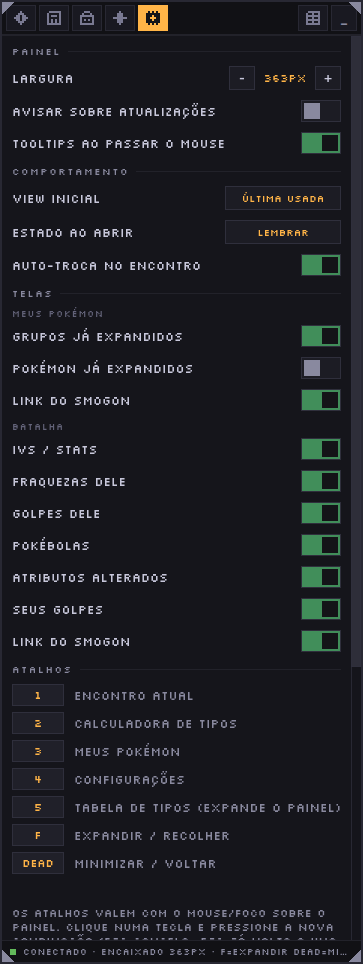
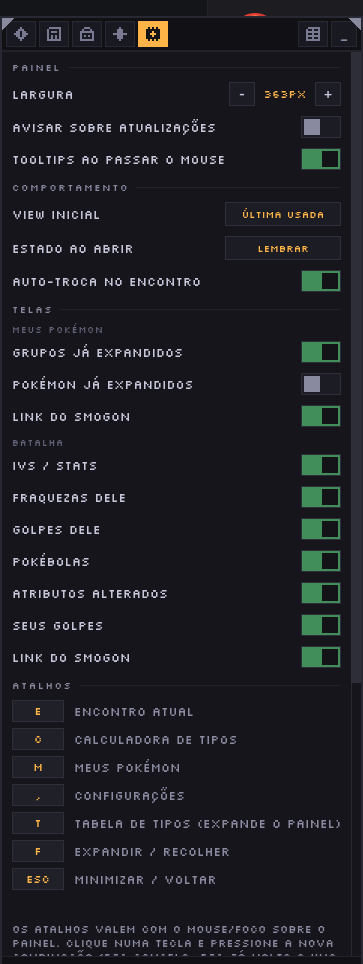
revert: desfaz a mudança dos atalhos padrão
Os atalhos numéricos já são tratados em feat/atualizar-bat-autoreload-atalhos,
com valores próprios (1/2/3/4 mantendo T e usando crase para minimizar). Ter
uma segunda versão aqui só criaria conflito na hora de juntar as duas, então
os padrões voltam ao que está na develop.

O print de Configurações foi refeito com os atalhos padrão restaurados no
perfil de captura — ele mostrava 1/2/3/4/5 e um "DEAD" no minimizar, que eram
preferências salvas naquele perfil, não o comportamento de fábrica.

diff --git a/data/extension-storage.js b/data/extension-storage.js
@@ -49,11 +49,11 @@ var PokemonHelperStorage = globalThis.PokemonHelperStorage || (() => {
         panelZoom: 1,                 // fator de zoom do conteúdo do painel (ver components/panel-zoom.js)
         // ação → combinação normalizada (ver PokemonHelperShortcutUtils)
         shortcuts: Object.freeze({
-            battle: '1',
-            calc: '2',
-            myPokemons: '3',
-            settings: '4',
-            typeChart: '5',
+            battle: 'e',
+            calc: 'c',
+            myPokemons: 'm',
+            settings: ',',
+            typeChart: 't',
             toggleFull: 'f',
             minimize: 'escape'
         }),

diff --git a/README.md b/README.md
@@ -382,11 +382,11 @@ sobre o painel do overlay (nunca disparam na página do jogo).
 | Ação | Atalho padrão | Onde funciona |
 |---|---|---|
 | Abrir/fechar o overlay inteiro | `Ctrl+Shift+Y` | Atalho do navegador (`chrome://extensions/shortcuts`) |
-| Encontro | `1` | Com foco no painel |
-| Calculadora | `2` | Com foco no painel |
-| Meus Pokémon | `3` | Com foco no painel |
-| Configurações | `4` | Com foco no painel |
-| Tabela de tipos | `5` | Com foco no painel |
+| Encontro | `E` | Com foco no painel |
+| Calculadora | `C` | Com foco no painel |
+| Meus Pokémon | `M` | Com foco no painel |
+| Configurações | `,` (vírgula) | Com foco no painel |
+| Tabela de tipos | `T` | Com foco no painel |
 | Expandir/recolher (modo full) | `F` | Com foco no painel |
 | Minimizar/voltar | `Esc` | Com foco no painel |
 
